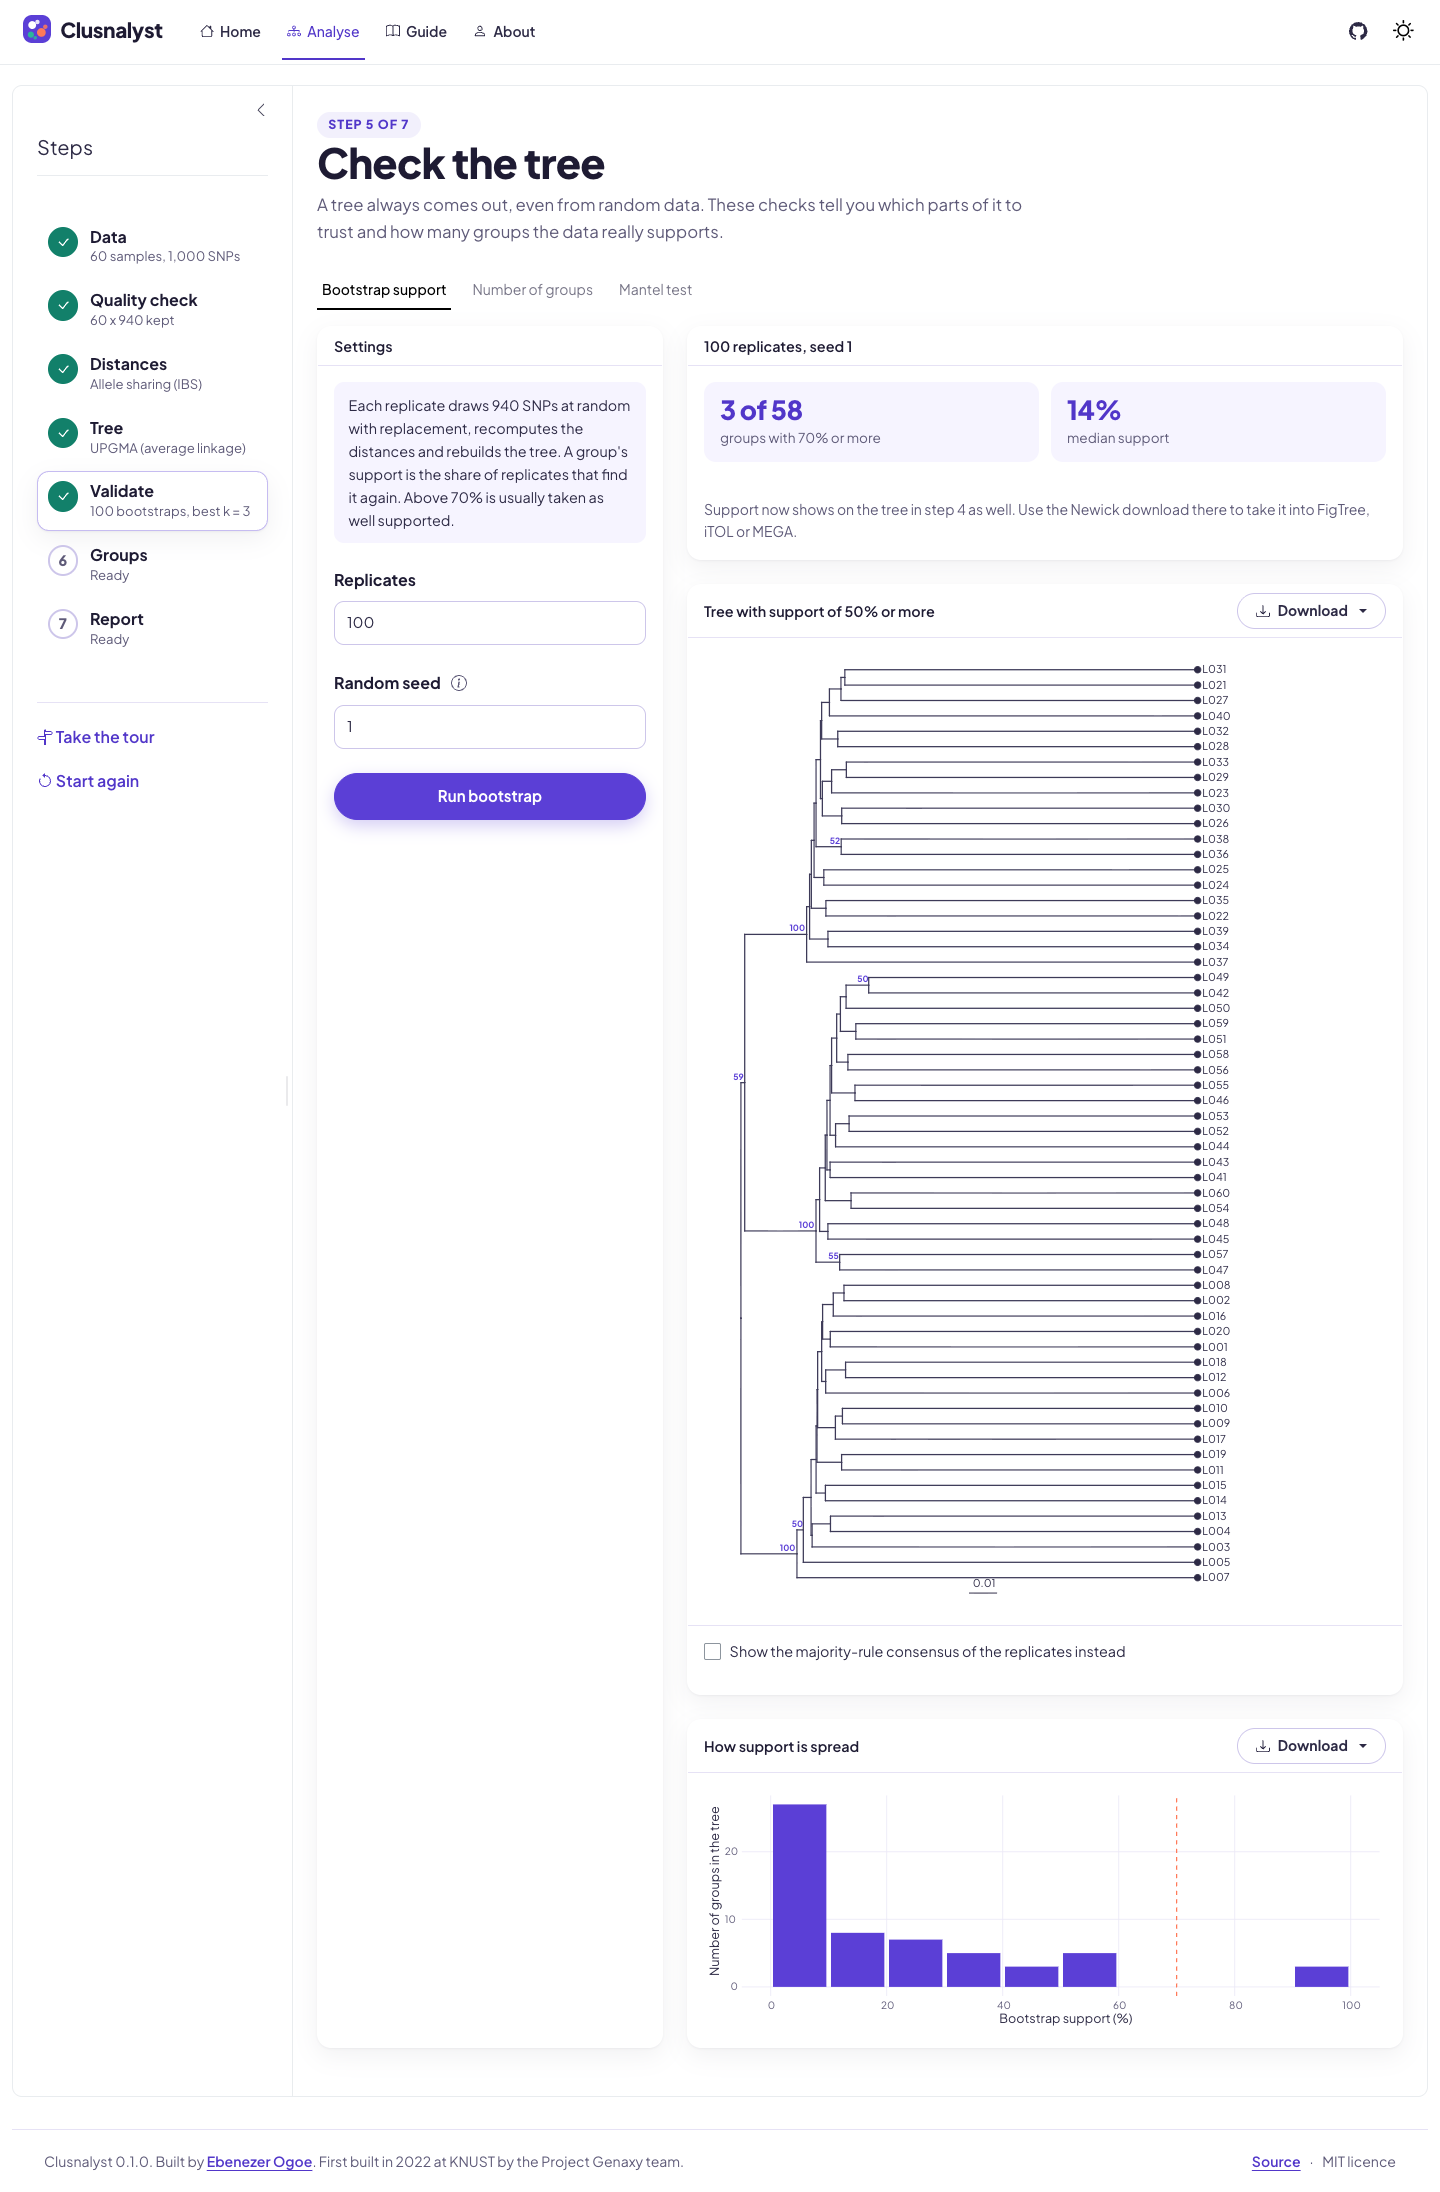
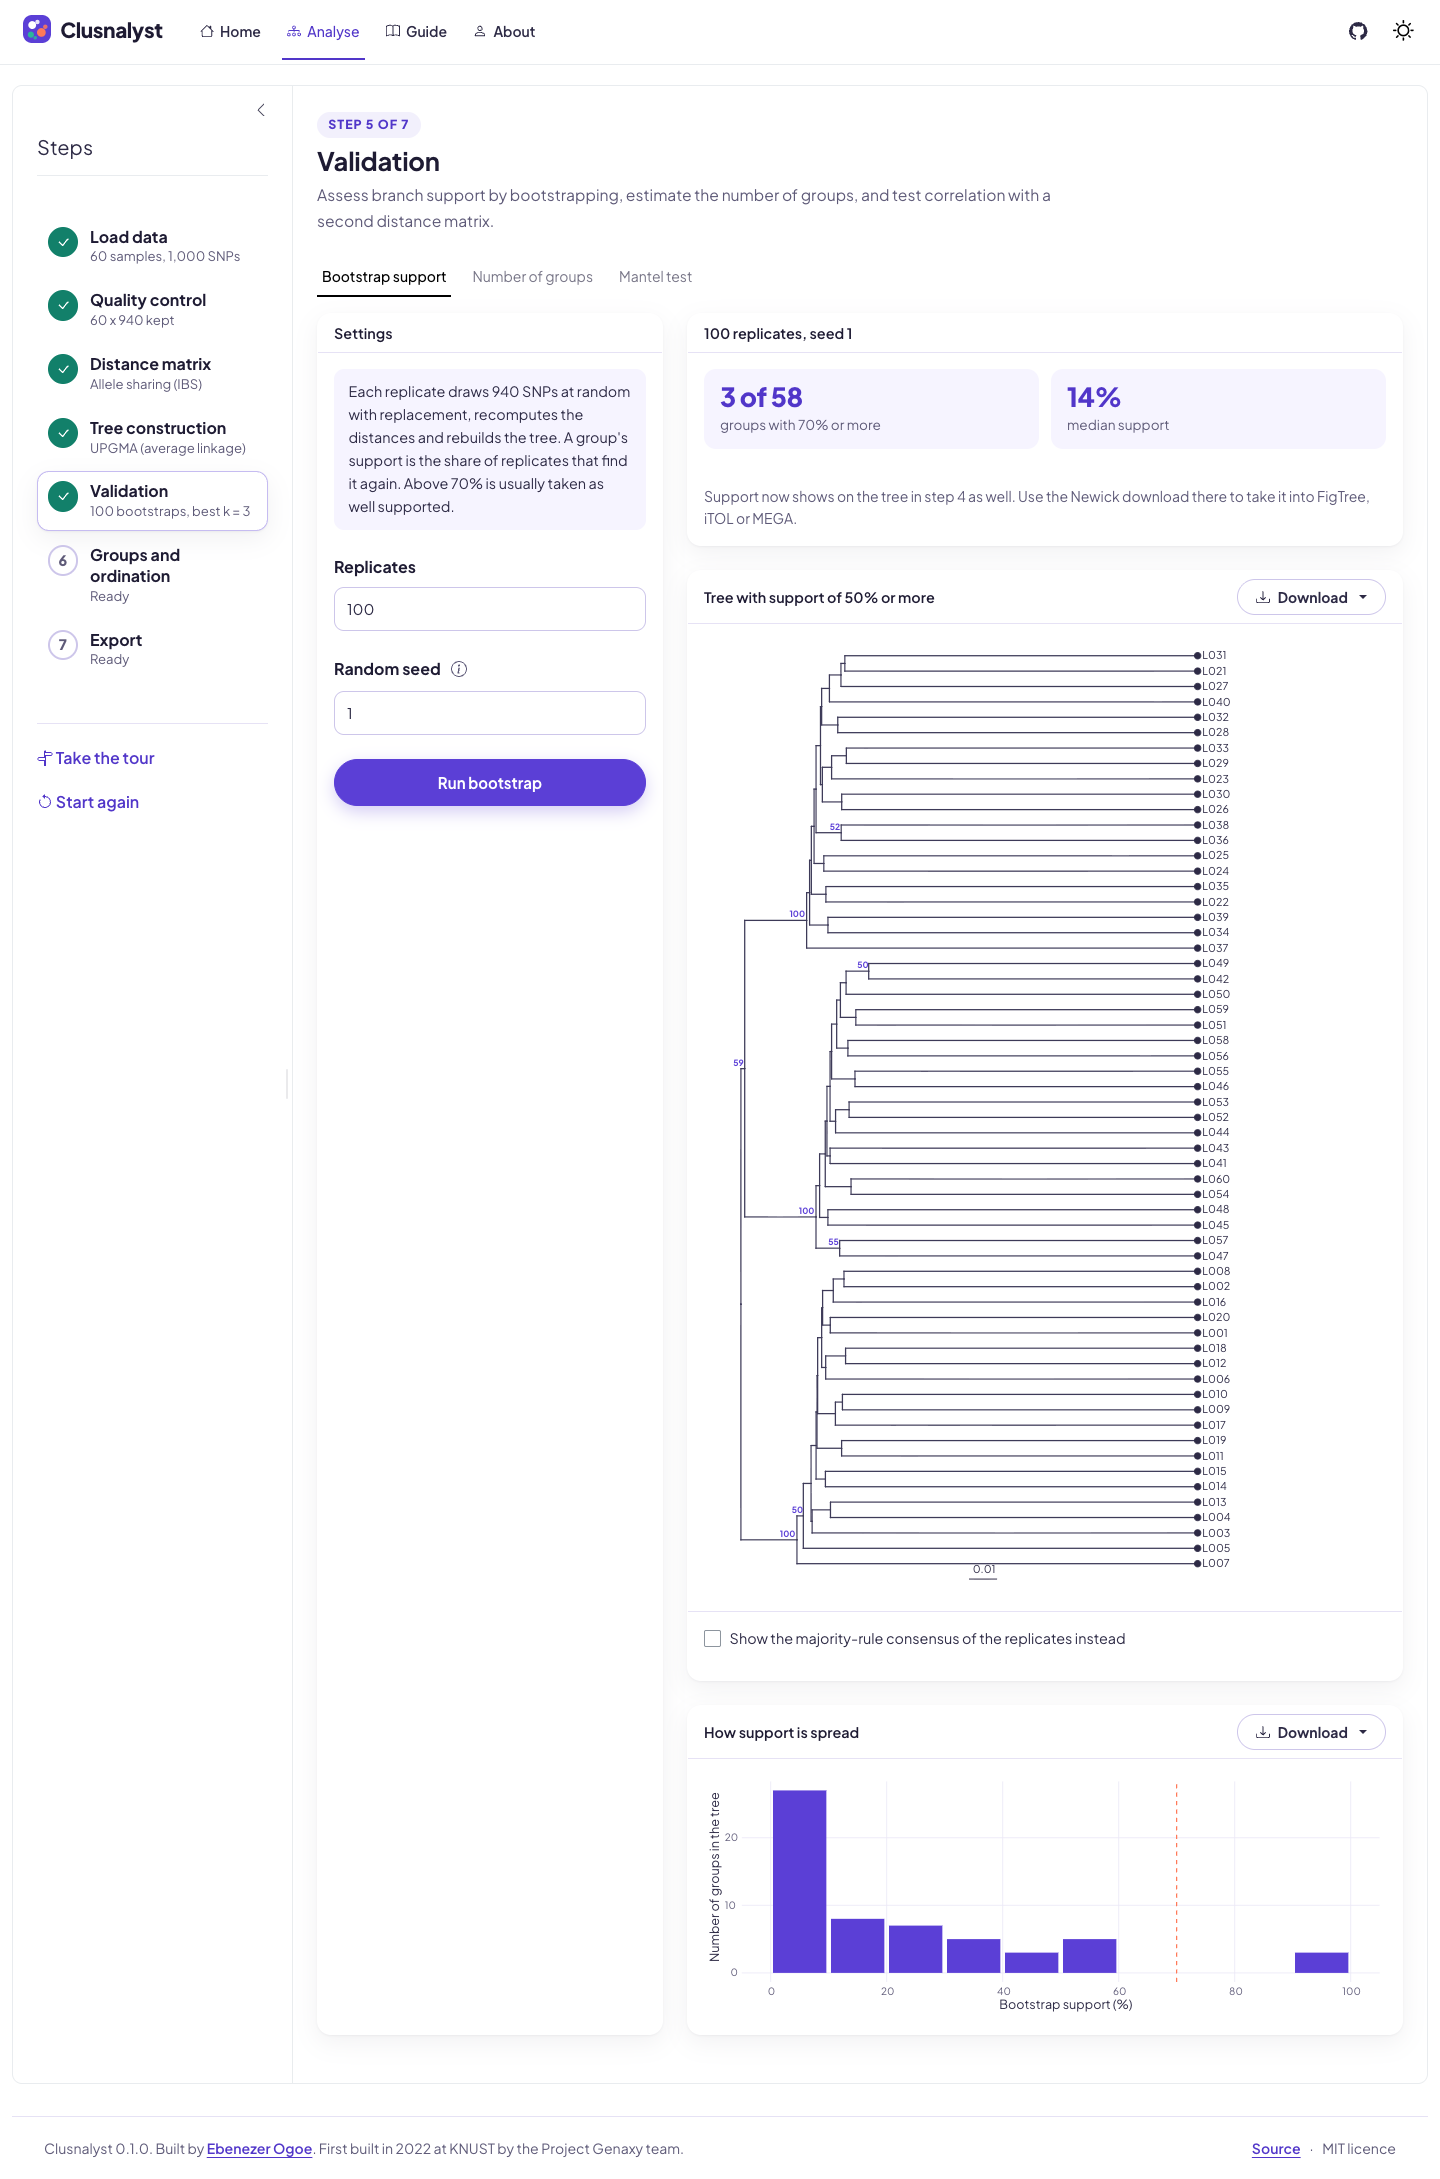
Compact step headings; concise professional copy and step names

diff --git a/inst/app/www/custom.css b/inst/app/www/custom.css
@@ -183,9 +183,9 @@ bslib-input-dark-mode { --text-1: var(--cl-text); --text-2: var(--cl-muted); --v
 .cl-analyse .sidebar-title { text-transform: uppercase; letter-spacing: 0.08em; font-size: 0.78rem; font-weight: 800; color: var(--cl-label); }
 
 .cl-step-head { display: flex; align-items: flex-end; justify-content: space-between; gap: 1rem; margin-bottom: 1.5rem; flex-wrap: wrap; }
-.cl-step-head h2 { font-size: clamp(1.75rem, 1.3rem + 1.6vw, 2.6rem); font-weight: 800; line-height: 1.05; margin: 0.15rem 0 0.5rem; }
+.cl-step-head h2 { font-size: 1.6rem; font-weight: 700; line-height: 1.2; letter-spacing: -0.01em; margin: 0.5rem 0 0.35rem; }
 .cl-kicker { display: inline-block; font-size: 0.78rem; font-weight: 800; text-transform: uppercase; letter-spacing: 0.08em; color: var(--cl-brand-text); background: var(--cl-brand-soft); border-radius: 999px; padding: 0.2rem 0.7rem; margin: 0; }
-.cl-lede { color: var(--cl-muted); max-width: 46rem; font-size: 1.05rem; margin: 0; }
+.cl-lede { color: var(--cl-muted); max-width: 46rem; font-size: 0.98rem; margin: 0; }
 
 .cl-stepper ol { list-style: none; margin: 0; padding: 0; display: grid; gap: 0.25rem; }
 .cl-step {
@@ -298,7 +298,7 @@ bslib-input-dark-mode { --text-1: var(--cl-text); --text-2: var(--cl-muted); --v
 .cl-hero-small { color: var(--cl-muted); font-size: 0.9rem; max-width: 30rem; }
 .cl-hero-card .card-body { padding: 0.5rem; }
 .cl-band { background: var(--cl-band); border-radius: 24px; padding: clamp(1.5rem, 4vw, 3rem); margin-bottom: 2.5rem; }
-.cl-band h2, .cl-section h2, .cl-page h2 { font-weight: 800; font-size: clamp(1.5rem, 1.2rem + 1vw, 2rem); margin-bottom: 1.25rem; }
+.cl-band h2, .cl-section h2, .cl-page h2 { font-weight: 700; font-size: 1.3rem; letter-spacing: -0.01em; margin-bottom: 1rem; }
 .cl-flow { list-style: none; counter-reset: flow; padding: 0; margin: 0; display: grid; gap: 1.25rem 2rem; }
 @media (min-width: 768px) { .cl-flow { grid-template-columns: 1fr 1fr; } }
 .cl-flow li { counter-increment: flow; display: grid; grid-template-columns: 2.6rem 1fr; grid-template-rows: auto auto; column-gap: 0.75rem; align-items: start; }
@@ -316,8 +316,8 @@ bslib-input-dark-mode { --text-1: var(--cl-text); --text-2: var(--cl-muted); --v
 
 /* Guide and About ------------------------------------------------------------- */
 .cl-page { max-width: 52rem; padding-top: clamp(2rem, 4vw, 3.5rem); padding-bottom: 3rem; }
-.cl-page h1 { font-size: clamp(2.4rem, 1.6rem + 3vw, 3.8rem); font-weight: 800; line-height: 1.02; letter-spacing: -0.04em; margin: 0.9rem 0 1rem; }
-.cl-page .cl-lede { font-size: 1.2rem; margin-bottom: 1.5rem; }
+.cl-page h1 { font-size: 2rem; font-weight: 700; line-height: 1.15; letter-spacing: -0.015em; margin: 0.6rem 0 0.6rem; }
+.cl-page .cl-lede { font-size: 1rem; margin-bottom: 1.5rem; }
 .cl-page h2 { margin-top: 2.25rem; }
 .cl-guide-actions { display: flex; flex-wrap: wrap; gap: 0.75rem; margin-bottom: 2rem; }
 .cl-page .cl-band { padding: clamp(1.25rem, 3vw, 2rem); margin-bottom: 2rem; }
